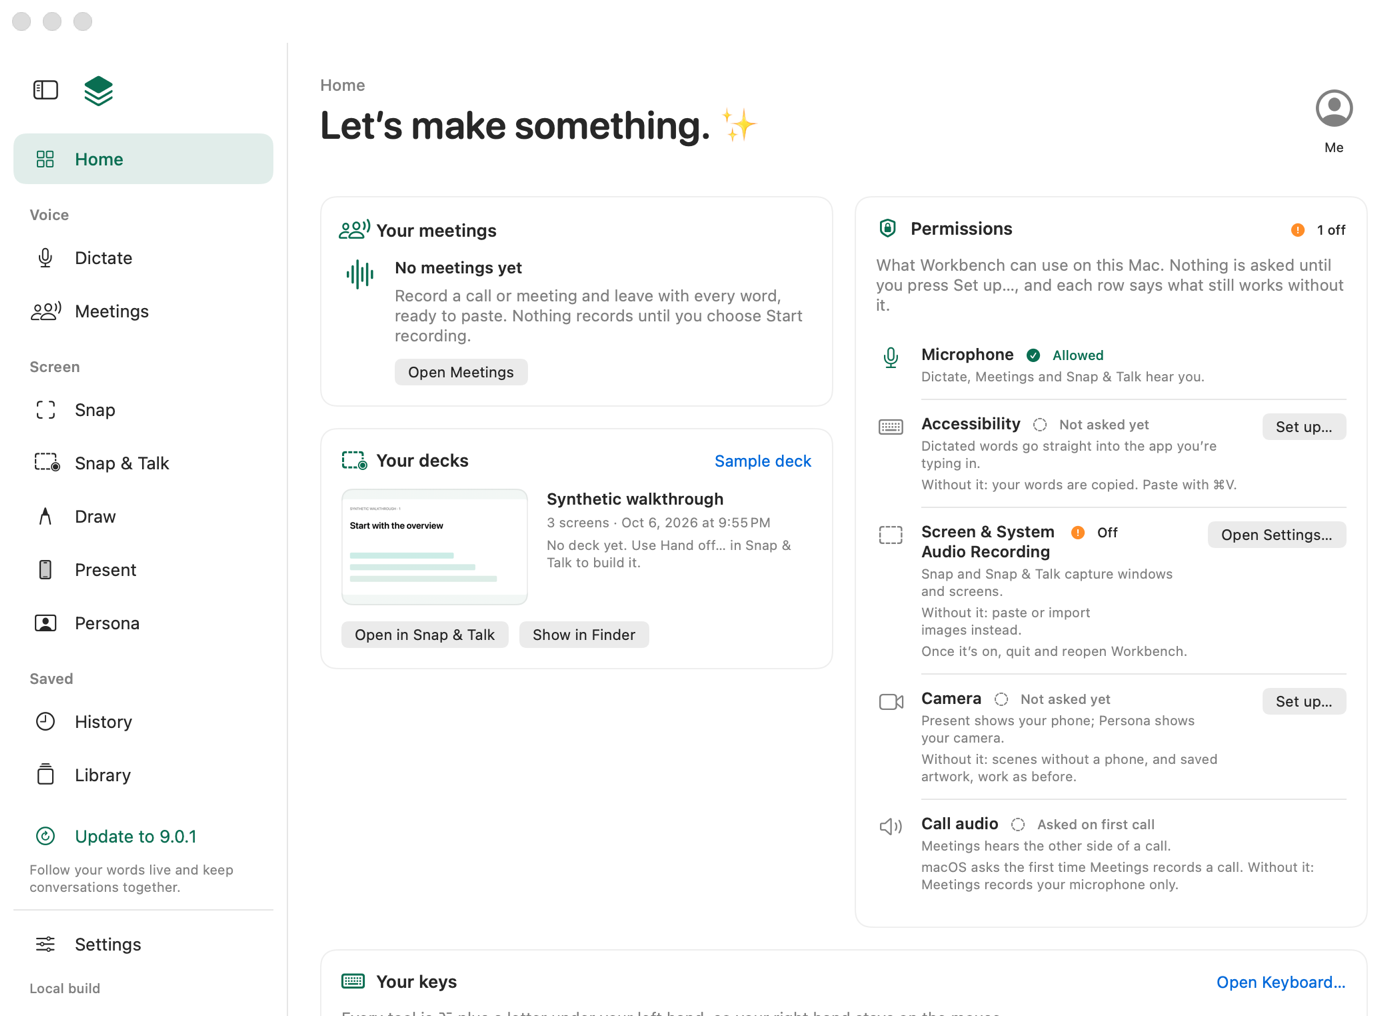
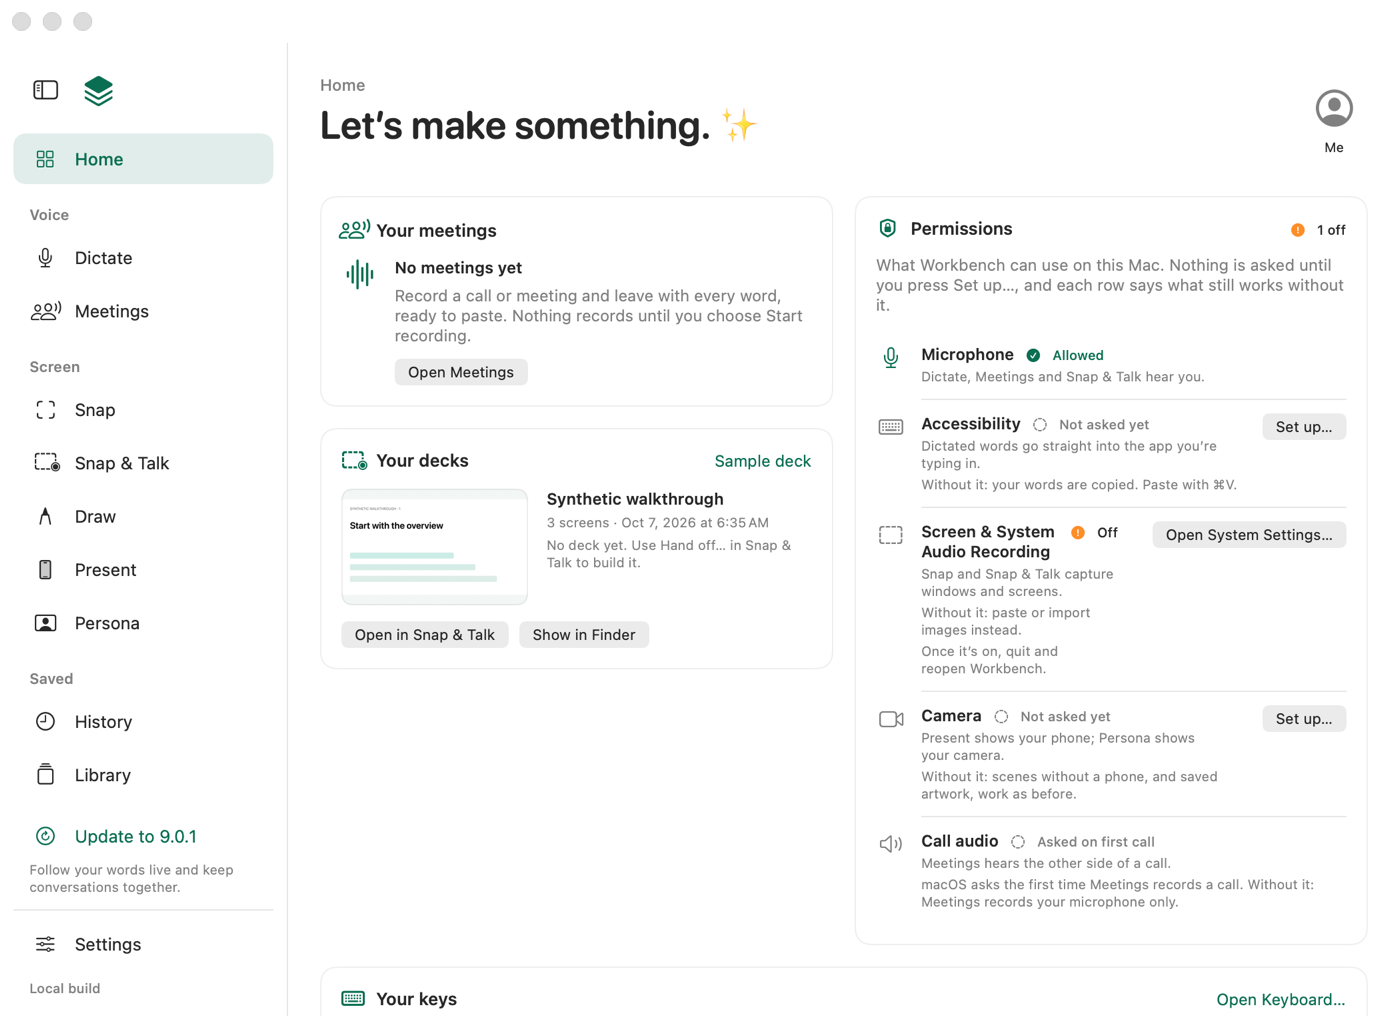
Make every Settings section the same stack of cards
General, Keyboard, Models and Connections now use the page kit's cards at one
width instead of four layouts: General's subjects are cards (the Floating
toolbar switch heads its own, keeping the name its four doors share), Models'
two views and Connections are carded, and Keyboard's list and detail share a
card under the header's summary. The selected shortcut reads in primary text,
the updates status line appears only when it says something, release notes is
a Workbench-coloured link, and the founder card is a kit card.

Refs #7

diff --git a/Sources/LocalVoice/WorkbenchHome.swift b/Sources/LocalVoice/WorkbenchHome.swift
@@ -335,41 +335,38 @@ struct WorkbenchHome: View {
                 // section ends them and restores the actions, as leaving the Keyboard page did.
                 ScrollView { KeyboardCoachView(model: keyboard) }
             case "models":
-                ScrollView { VStack(alignment: .leading, spacing: Workbench.sectionSpacing) {
+                settingsStack {
+                    // Each model view names its own job, so its card carries no second title.
                     ModelSettingsView(engine: model.engine, isBusy: model.phase != .idle || model.meetings.isBusy || readback.isRecording || readback.isCapturing || readback.hasPendingTranscriptions,
-                                      snapshot: model.recognition, onNotNow: { model.page = "home" }, onSnapshot: model.acceptRecognition)
-                    Divider()
-                    CleanupModelSettingsView(manager: model.cleanupModels, isBusy: model.phase != .idle || model.preparing)
-                }.padding(Workbench.pagePadding) }
+                                      snapshot: model.recognition, onNotNow: { model.page = "home" }, onSnapshot: model.acceptRecognition).workbenchCard()
+                    CleanupModelSettingsView(manager: model.cleanupModels, isBusy: model.phase != .idle || model.preparing).workbenchCard()
+                }
             case "connections":
-                ScrollView { VStack(alignment: .leading, spacing: Workbench.sectionSpacing) {
-                    SubscriptionSettingsView(jobs: model.handoffJobs)
-                    if model.photoHandoff.isConfigured {
-                        Divider()
-                        PhotoHandoffSettings(handoff: model.photoHandoff)
-                    }
-                }.padding(Workbench.pagePadding).frame(maxWidth: .infinity, alignment: .leading) }
+                settingsStack {
+                    SubscriptionSettingsView(jobs: model.handoffJobs).workbenchCard()
+                    if model.photoHandoff.isConfigured { PhotoHandoffSettings(handoff: model.photoHandoff).workbenchCard() }
+                }
             default:
-                // One grouped form, as System Settings lays out preferences: each setting a row,
-                // switches throughout, and what a setting does in its section's footer.
-                Form {
+                // The same cards as every other page, one per subject, with what each setting does
+                // beside it rather than only on hover.
+                settingsStack {
                     // Saved drawing settings that could not be read or saved, and login, belong to
                     // General: the menu-bar panel's Open Settings… leads to these words (#134).
-                    if let notice = stage.notice(on: .general) {
-                        Section { WorkbenchNote(notice) }
+                    if let notice = stage.notice(on: .general) { WorkbenchNote(notice).workbenchCard() }
+                    WorkbenchTile("Appearance", symbol: "circle.lefthalf.filled") {
+                        WorkbenchAppearancePicker().labelsHidden().fixedSize()
                     }
-                    Section { WorkbenchAppearancePicker() }
                     // The one floating-toolbar switch the panel, the Window menu and the toolbar's own
                     // Hide toolbar share (#134), with the toolbar's own choices beneath it.
-                    Section {
-                        Toggle("Floating toolbar", isOn: $model.floatingToolbarVisible).toggleStyle(.switch)
+                    // The switch is the card's heading: it keeps the one name its four doors share.
+                    VStack(alignment: .leading, spacing: 10) {
+                        Toggle("Floating toolbar", isOn: $model.floatingToolbarVisible).toggleStyle(.switch).font(Workbench.sectionTitle)
                             .onGeometryChange(for: CGRect.self) { $0.frame(in: .global) } action: { sectionFrames?("settings.toolbar.visibility", $0) }
-                        ToolbarSettingsView(model: model)
-                    } footer: {
+                        ToolbarSettingsView(model: model).padding(.leading, 18)
                         Text(WorkbenchHome.floatingToolbarHelp + " Drag the toolbar to move it, or choose a position here.")
-                            .font(.caption).foregroundStyle(.secondary)
-                    }
-                    Section {
+                            .font(.caption).foregroundStyle(.secondary).fixedSize(horizontal: false, vertical: true)
+                    }.workbenchCard()
+                    WorkbenchTile("Startup", symbol: "power") {
                         // On means registered with macOS. macOS may still want the person to approve
                         // it in Login Items; then the switch stays on and says so (docs/desktop.md).
                         Toggle("Open Workbench at login", isOn: Binding(get: { loginEnabled || loginNeedsApproval }, set: { value in
@@ -378,6 +375,7 @@ struct WorkbenchHome: View {
                             catch { loginError = error.localizedDescription }
                             readLoginItem()
                         })).toggleStyle(.switch)
+                        Text("Workbench starts in the menu bar; its window opens when you need it.").font(.caption).foregroundStyle(.secondary)
                         if loginNeedsApproval {
                             HStack(spacing: 8) {
                                 WorkbenchNote("macOS needs your approval in System Settings › General › Login Items.", font: .caption)
@@ -386,15 +384,13 @@ struct WorkbenchHome: View {
                             }
                         }
                         if let loginError { WorkbenchNote(loginError, font: .caption) }
-                    } footer: {
-                        Text("Workbench starts in the menu bar; its window opens when you need it.").font(.caption).foregroundStyle(.secondary)
                     }
                     .onAppear(perform: readLoginItem)
                     .onReceive(NotificationCenter.default.publisher(for: NSApplication.didBecomeActiveNotification)) { _ in readLoginItem() }
-                    Section { WorkbenchUpdateSettings() } header: { Text("Updates") }
+                    WorkbenchTile("Updates", symbol: "arrow.down.circle") { WorkbenchUpdateSettings() }
                     // Each capability keeps its options on its own page: Meetings holds Detect Meetings
                     // & Calls, so General names only Dictate's door (#134).
-                    Section {
+                    WorkbenchTile("Dictate", symbol: WorkbenchHome.symbol(of: "dictate")) {
                         HStack(spacing: 12) {
                             // Opens Dictate on its options and focuses them (#134).
                             Button("Dictate settings…") { model.focusRequest = PageFocusRequest(target: .dictateOptions); model.page = "dictate" }
@@ -403,13 +399,12 @@ struct WorkbenchHome: View {
                                 Button("Show me a first dictation") { model.preferences.firstDictationGuide = .offered; model.page = "home" }
                             }
                         }
-                    } footer: {
                         Text("Delivery, text style, shortcut, activation and your dictionary."
                              + (Workbench.isPreview ? " Workbench and Workbench Preview keep separate libraries; your previous Voice and StageMark data remains in place." : ""))
-                            .font(.caption).foregroundStyle(.secondary)
+                            .font(.caption).foregroundStyle(.secondary).fixedSize(horizontal: false, vertical: true)
                     }
-                    Section { FounderIntroductionCard(model: introduction, canDismiss: false) }
-                }.formStyle(.grouped).frame(maxWidth: 680, alignment: .leading).frame(maxWidth: .infinity, alignment: .leading)
+                    FounderIntroductionCard(model: introduction, canDismiss: false)
+                }
             }
         }
     }
@@ -455,6 +450,16 @@ struct WorkbenchHome: View {
             sectionSwitcher(page, selection: selection) { model.page = $0 }
         }.padding([.horizontal, .top], Workbench.pagePadding)
     }
+    /// Every Settings section is the same scrolling stack of kit cards, capped at one width, so the
+    /// four sections read as one page (docs/desktop.md § Page kit).
+    private func settingsStack<Content: View>(@ViewBuilder _ content: () -> Content) -> some View {
+        ScrollView {
+            VStack(alignment: .leading, spacing: Workbench.sectionSpacing) { content() }
+                .frame(maxWidth: Workbench.settingsWidth, alignment: .leading)
+                .padding(Workbench.pagePadding).frame(maxWidth: .infinity, alignment: .leading)
+        }
+    }
+
     /// A section's one-line summary, in the page header above the switcher where every other page
     /// has its own; the section's view does not repeat it.
     static let sectionSummaries: [String: String] = [

diff --git a/Sources/LocalVoice/WorkbenchUpdates.swift b/Sources/LocalVoice/WorkbenchUpdates.swift
@@ -260,7 +260,9 @@ struct WorkbenchUpdateSettings: View {
             Text("Build \(updates.build.number) · Source \(updates.build.revision.prefix(8))")
                 .font(.caption.monospaced()).foregroundStyle(.secondary).textSelection(.enabled)
             if let summary = updates.releaseSummary { Text(summary).font(.callout).fixedSize(horizontal: false, vertical: true) }
-            Text(updates.status).font(.callout).foregroundStyle(.secondary).fixedSize(horizontal: false, vertical: true)
+            if !updates.status.isEmpty {
+                Text(updates.status).font(.callout).foregroundStyle(.secondary).fixedSize(horizontal: false, vertical: true)
+            }
             if updates.build.released {
                 Toggle("Check for updates automatically", isOn: Binding(get: { updates.automaticChecks }, set: updates.setAutomaticChecks)).toggleStyle(.switch)
                 Toggle("Download updates automatically", isOn: Binding(get: { updates.automaticDownloads }, set: updates.setAutomaticDownloads)).toggleStyle(.switch)
@@ -269,7 +271,8 @@ struct WorkbenchUpdateSettings: View {
             HStack {
                 Button(updates.buttonTitle) { updates.checkForUpdates() }.disabled(!updates.canCheck)
                 Button("Copy build details") { updates.copyDetails() }
-                Link("Release notes and downloads", destination: URL(string: "https://github.com/Ship-Work/workbench/releases")!)
+                Button("Release notes and downloads") { NSWorkspace.shared.open(URL(string: "https://github.com/Ship-Work/workbench/releases")!) }
+                    .buttonStyle(.workbenchLink)
             }
         }
     }

diff --git a/Sources/LocalVoice/KeyboardCoach.swift b/Sources/LocalVoice/KeyboardCoach.swift
@@ -340,7 +340,7 @@ struct KeyboardCoachView: View {
                             Text(selected.title).font(.title3.weight(.semibold))
                             Spacer()
                             Text(model.interaction == .recording ? "Press keys…" : selected.shortcut.label)
-                                .font(.system(size: 23, weight: .medium, design: .monospaced)).foregroundStyle(Workbench.accent)
+                                .font(.title3.monospacedDigit().weight(.medium)).foregroundStyle(.primary)
                         }
                         HStack {
                             Button(model.interaction == .recording ? "Cancel recording" : "Record shortcut") {
@@ -362,7 +362,7 @@ struct KeyboardCoachView: View {
                         }
                     }
                 }.frame(maxWidth: .infinity, alignment: .leading)
-            }.frame(minHeight: 230)
+            }.frame(minHeight: 230).workbenchCard()
             VirtualMacKeyboard(shortcut: selected?.shortcut, active: model.isInteracting, heldModifiers: model.heldModifiers, heldKey: model.heldKey)
             HStack(alignment: .top, spacing: 10) {
                 Image(systemName: model.isInteracting ? "hand.raised.fill" : "keyboard").foregroundStyle(Workbench.accent)

diff --git a/Sources/LocalVoice/ToolbarSettingsView.swift b/Sources/LocalVoice/ToolbarSettingsView.swift
@@ -21,9 +21,7 @@ private struct ToolbarSettingsControls: View {
         })).toggleStyle(.switch).controlSize(.mini)
             .help("Keep the toolbar's full row showing instead of resting as a handle.")
             .onGeometryChange(for: CGRect.self) { $0.frame(in: .global) } action: { sectionFrames?("settings.toolbar.keepOpen", $0) }
-        LabeledContent("Position") {
-            Button("Position floating toolbar…") { model.showPanelPreview() }
-                .disabled(model.phase != .idle)
-        }
+        Button("Position floating toolbar…") { model.showPanelPreview() }
+            .disabled(model.phase != .idle)
     }
 }

diff --git a/Sources/LocalVoice/WorkbenchPageStyle.swift b/Sources/LocalVoice/WorkbenchPageStyle.swift
@@ -13,6 +13,8 @@ extension Workbench {
     /// on the control surface with a hairline, so a card reads the same on Home and on a tool page.
     static let tileRadius: CGFloat = 12
     static let tilePadding: CGFloat = 16
+    /// The width Settings' cards keep, whichever section is shown.
+    static let settingsWidth: CGFloat = 720
     /// Orange asks for attention and nothing else; red stays for recording and removal.
     static let attention = Color.orange
 }

diff --git a/Sources/LocalVoice/FounderIntroduction.swift b/Sources/LocalVoice/FounderIntroduction.swift
@@ -93,7 +93,6 @@ struct FounderIntroductionCard: View {
                         .fixedSize(horizontal: false, vertical: true)
                 }
             }.frame(maxWidth: .infinity, alignment: .leading)
-        }.padding(20)
-            .background(Color.primary.opacity(0.035), in: RoundedRectangle(cornerRadius: 14))
+        }.workbenchCard()
     }
 }

diff --git a/docs/desktop.md b/docs/desktop.md
@@ -118,7 +118,7 @@ Each page moves to the kit in its own small PR, rendered in the surface gallery,
 | Persona | Frozen beyond kit tokens (mac-foundation §1) | Tokens only |
 | History | Row radius to the kit; one prominent Hand off… in the selection footer | Later |
 | Library | Resources and Packs empty states and radii to the kit; From iPhone retires with #286 | After #286 |
-| Settings | General as one grouped form (switches throughout, Keep open beneath its switch, what each does in the footer); Keyboard lists what is on first in Your keys' order, then Off · N; Workbench's accent, not system blue | Done in the chrome PR (stacked on the first); login approval in the first |
+| Settings | Every section is the same stack of kit cards at one width (`Workbench.settingsWidth`): General's subjects each a card, Models' two views and Connections carded, Keyboard's list and detail in one card with its summary in the header; Keyboard lists what is on first in Your keys' order, then Off · N; Workbench's accent, not system blue | Done in the chrome PR (stacked on the first); login approval in the first |
 
 ## Working on a page
 
